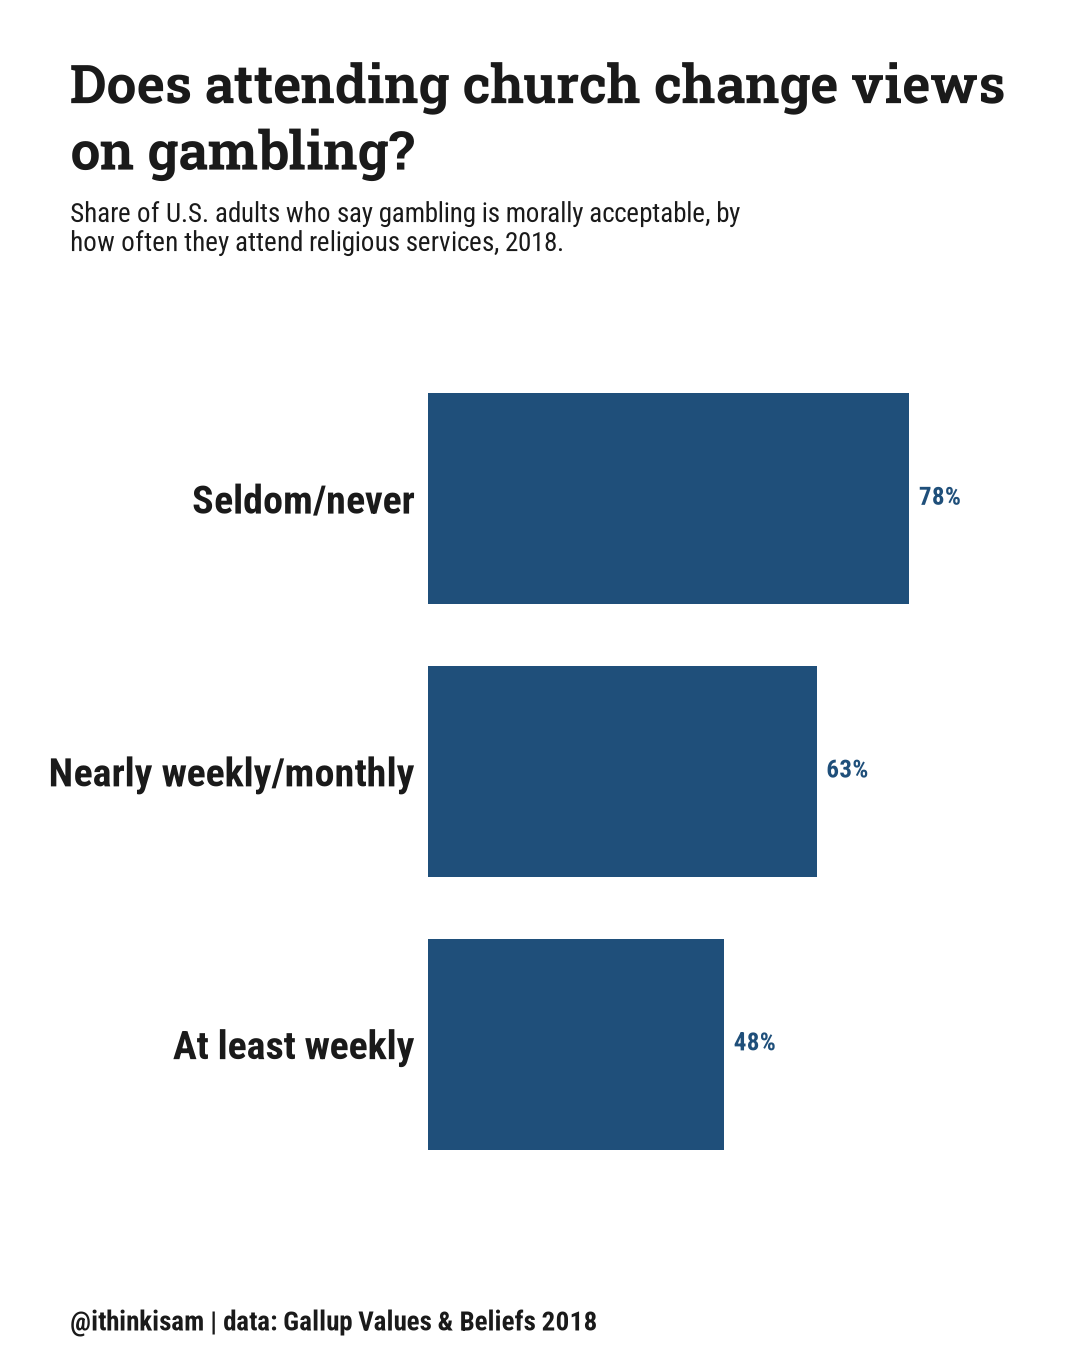
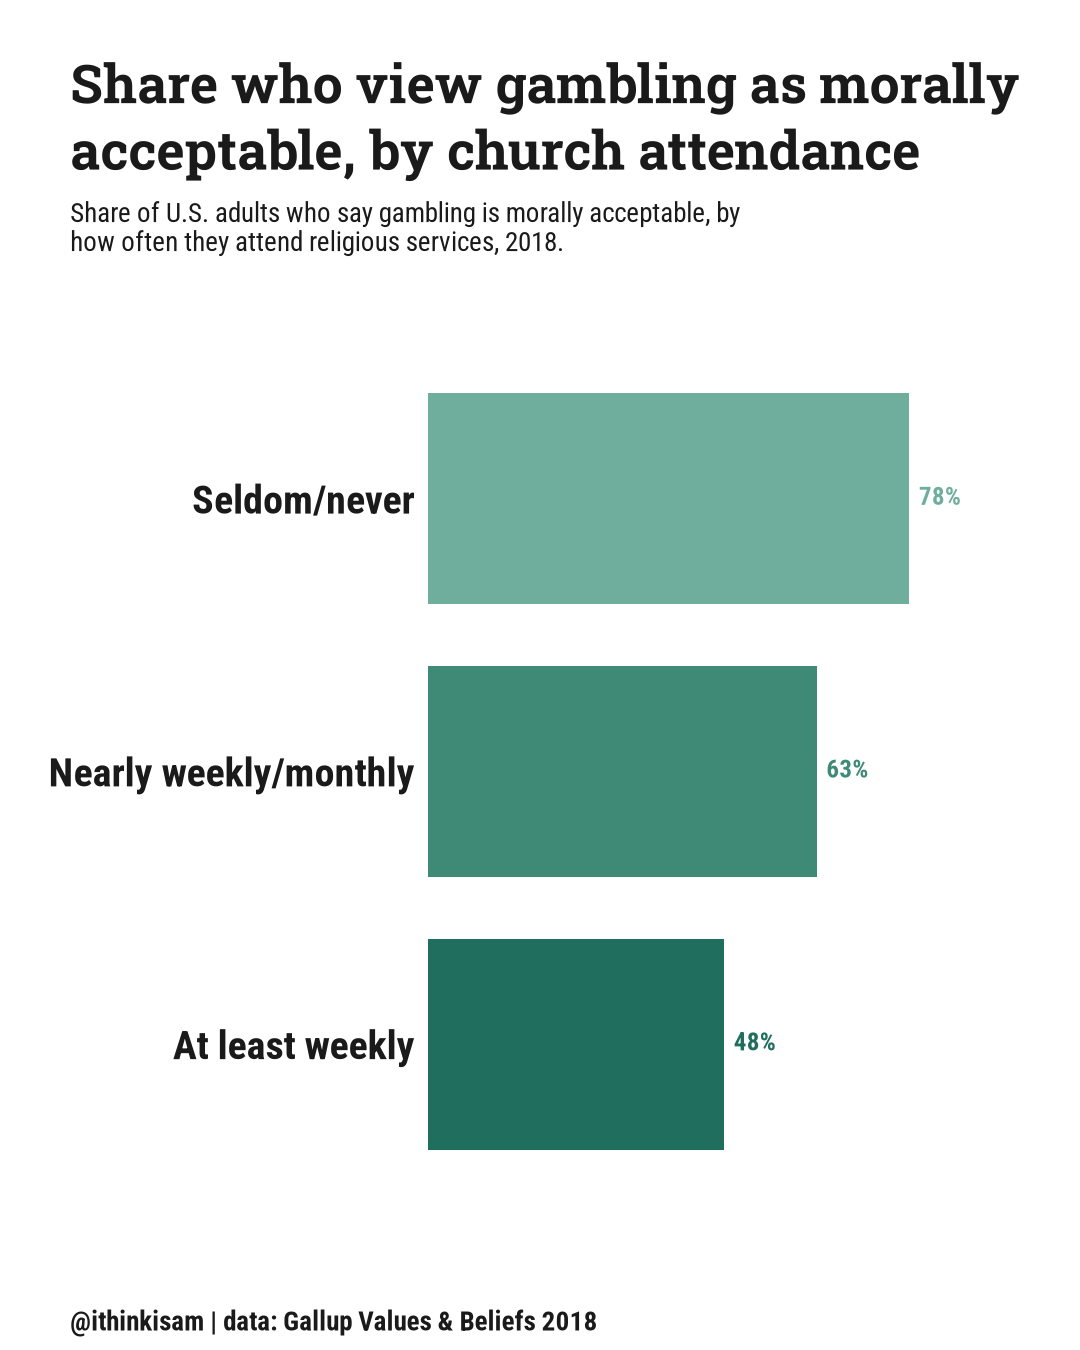
Flag bars for Pew country chart; colored Gallup attendance charts incl. morally wrong (#31)

Changed region(s): [[0.3972, 0.28, 0.8861, 0.6533], [0.0611, 0.0311, 0.9472, 0.1556], [0.3972, 0.6844, 0.7028, 0.8711]]

diff --git a/src/lib/data-explorer.ts b/src/lib/data-explorer.ts
@@ -1859,7 +1859,7 @@ const RAW_DATASETS: Dataset[] = [
     citation:
       "Gallup. 2016. \"U.S. Religious Groups Disagree on Five Key Moral Issues.\"",
     sourceUrl: "https://news.gallup.com/poll/191903/religious-groups-disagree-five-key-moral-issues.aspx",
-    graphics: [gallupGamblingGraphic(), gallupAttendanceGraphic()],
+    graphics: [gallupGamblingGraphic(), gallupAttendanceGraphic(), gallupAttendanceWrongGraphic()],
   },
   {
     slug: "pew-gambling-morality-2025",
@@ -2326,11 +2326,25 @@ function gallupAttendanceGraphic(): Graphic {
     .map((g) => `${g} ${results[g as keyof typeof results]}%`)
     .join(", ");
   return {
-    title: "Does attending church change views on gambling?",
+    title: "Share who view gambling as morally acceptable, by church attendance",
     description: "Share of U.S. adults who say gambling is morally acceptable, by religious service attendance, 2018.",
     imageSrc: "/data-explorer/gallup-values-beliefs-gambling/acceptable-by-attendance.png",
     width: 1080, height: 1350,
     alt: `Bar chart: share of U.S. adults saying gambling is morally acceptable, by attendance. ${alt}.`,
+  };
+}
+
+function gallupAttendanceWrongGraphic(): Graphic {
+  const { attendance_order: order, wrong_pct: results } = gallupAttendanceData;
+  const alt = order
+    .map((g) => `${g} ${results[g as keyof typeof results]}%`)
+    .join(", ");
+  return {
+    title: "Share who view gambling as morally wrong, by church attendance",
+    description: "Share of U.S. adults who say gambling is morally wrong, by religious service attendance, 2018.",
+    imageSrc: "/data-explorer/gallup-values-beliefs-gambling/wrong-by-attendance.png",
+    width: 1080, height: 1350,
+    alt: `Bar chart: share of U.S. adults saying gambling is morally wrong, by attendance. ${alt}.`,
   };
 }
 
@@ -2342,7 +2356,7 @@ function pewGamblingCountryGraphic(): Graphic {
     .join(", ");
   return {
     title: "Where is gambling seen as morally wrong?",
-    description: "Share of adults in 25 countries who say gambling is morally wrong, 2025.",
+    description: "Share of adults in 25 countries who say gambling is morally wrong, 2025, with each country's flag.",
     imageSrc: "/data-explorer/pew-gambling-morality-2025/gambling-morally-wrong-by-country.png",
     width: 1080, height: 1350,
     alt: `Bar chart: share saying gambling is morally wrong, by country. ${alt}.`,

diff --git a/scripts/flagship-charts/common.py b/scripts/flagship-charts/common.py
@@ -234,6 +234,7 @@ def render_magnitude_bar(
     margin_frac_override: float | None = None,
     row_label_fontsize: float | None = None,
     value_decimals: int = 0,
+    bar_images: dict[str, Path] | None = None,
 ) -> None:
     """One horizontal bar per `rows` entry (already in top-to-bottom display
     order), reading its value from `values[row]`. `caption_paragraphs`,
@@ -304,6 +305,13 @@ def render_magnitude_bar(
     suffix - e.g. lds-brazil-census-2010's state-level LDS shares, which
     run 0.03%-0.25%; at the default 0 decimals every single row would
     round to the same "0%" label.
+
+    `bar_images`, when given, maps a row label to an image file (e.g. a
+    country flag). That row's bar is filled with the image stretched to the
+    bar's extent (outlined in INK so a mostly-white image still reads), a
+    small copy of the image sits between the row label and the bar, and the
+    value label is drawn in INK. Rows missing from the map keep their normal
+    solid color. Default None leaves every existing caller unchanged.
     """
     fonts = fonts or load_fonts()
     fig = plt.figure(figsize=(FIG_W_IN, FIG_H_IN), dpi=DPI)
@@ -324,7 +332,7 @@ def render_magnitude_bar(
     ax.set_xticks([])
     for spine in ax.spines.values():
         spine.set_visible(False)
-    ax.tick_params(axis="y", length=0, pad=8)
+    ax.tick_params(axis="y", length=0, pad=8 + (36 if bar_images else 0))
 
     display_rows = rows[::-1]
     vals = [values[r] for r in display_rows]
@@ -445,7 +453,31 @@ def render_magnitude_bar(
         running += w / 2 if i == 0 else weights[i - 1] / 2 + w / 2
         row_positions.append(running)
 
-    ax.barh(row_positions, vals, height=bar_h, color=colors, zorder=3)
+    if bar_images:
+        from matplotlib.offsetbox import AnnotationBbox, OffsetImage
+        from PIL import Image
+        import numpy as np
+        bars = ax.barh(row_positions, vals, height=bar_h, color=colors, zorder=3)
+        for r, v, y, bar in zip(display_rows, vals, row_positions, bars):
+            if r not in bar_images:
+                continue
+            arr = np.asarray(Image.open(bar_images[r]).convert("RGBA"))
+            bar.set_visible(False)
+            ax.imshow(arr, extent=(0, v, y - bar_h / 2, y + bar_h / 2), aspect="auto",
+                      zorder=3, interpolation="bilinear")
+            ax.barh([y], [v], height=bar_h, fill=False, edgecolor=INK, linewidth=0.9, zorder=5)
+            icon_h_px = 17
+            zoom = icon_h_px / arr.shape[0] * 72 / DPI
+            ab = AnnotationBbox(
+                OffsetImage(arr, zoom=zoom), (0, y), xycoords=("axes fraction", "data"),
+                xybox=(-9, 0), boxcoords="offset points", box_alignment=(1, 0.5),
+                frameon=True, bboxprops=dict(edgecolor=BORDER, linewidth=0.8, facecolor="none"),
+                pad=0, annotation_clip=False, zorder=6,
+            )
+            ax.add_artist(ab)
+        colors = [INK if r in bar_images else c for r, c in zip(display_rows, colors)]
+    else:
+        ax.barh(row_positions, vals, height=bar_h, color=colors, zorder=3)
     ax.set_xlim(0, max(vals) * 1.22)
     span = (row_positions[-1] + weights[-1] / 2) - (row_positions[0] - weights[0] / 2)
     pad = span * margin_frac

diff --git a/scripts/gallup-values-beliefs-gambling/render_acceptable_by_attendance.py b/scripts/gallup-values-beliefs-gambling/render_acceptable_by_attendance.py
@@ -1,10 +1,14 @@
 #!/usr/bin/env python3
-"""Renders "Does attending church change views on gambling?" from
+"""Renders the two Gallup 2018 gambling-by-attendance charts (morally
+acceptable, morally wrong) from
 docs/datasets/gallup-values-beliefs-gambling/acceptable-by-attendance.json.
+Bars are a three-step ramp by attendance (lighter = attends less): green for
+"acceptable", oxblood-red for "wrong", matching the Latter-day Saint
+Next Mormons chart's colors.
 
 Usage:
   python scripts/gallup-values-beliefs-gambling/render_acceptable_by_attendance.py \
-    --out public/data-explorer/gallup-values-beliefs-gambling/acceptable-by-attendance.png
+    --out-dir public/data-explorer/gallup-values-beliefs-gambling
 """
 import argparse
 import json
@@ -17,25 +21,37 @@ from common import load_fonts, render_magnitude_bar  # noqa: E402
 
 DATA_JSON = HERE.parent.parent / "docs" / "datasets" / "gallup-values-beliefs-gambling" / "acceptable-by-attendance.json"
 
+# Seldom/never -> At least weekly, light to dark.
+GREEN_RAMP = ["#6FAE9C", "#3F8A77", "#1F6E5E"]
+RED_RAMP = ["#C98585", "#A65252", "#7C2D2D"]
+
 
 def main():
     ap = argparse.ArgumentParser()
-    ap.add_argument("--out", type=Path, required=True)
+    ap.add_argument("--out-dir", type=Path, required=True)
     ap.add_argument("--data", type=Path, default=DATA_JSON)
     args = ap.parse_args()
     data = json.loads(args.data.read_text(encoding="utf-8"))
-    rows = sorted(data["attendance_order"], key=lambda r: -data["acceptable_pct"][r])
-    render_magnitude_bar(
-        rows=rows,
-        values=data["acceptable_pct"],
-        highlight_rows=None,
-        title="Does attending church change views on gambling?",
-        subtitle="Share of U.S. adults who say gambling is morally acceptable, by\nhow often they attend religious services, 2018.",
-        caption_paragraphs=[],
-        handle="@ithinkisam | data: Gallup Values & Beliefs 2018",
-        out_path=args.out,
-        fonts=load_fonts(),
-    )
+    order = data["attendance_order"]
+    fonts = load_fonts()
+    for key, word, ramp, fname in (
+        ("acceptable_pct", "acceptable", GREEN_RAMP, "acceptable-by-attendance.png"),
+        ("wrong_pct", "wrong", RED_RAMP, "wrong-by-attendance.png"),
+    ):
+        values = data[key]
+        rows = sorted(order, key=lambda r: -values[r])
+        render_magnitude_bar(
+            rows=rows,
+            values=values,
+            highlight_rows=None,
+            row_colors=dict(zip(order, ramp)),
+            title=f"Share who view gambling as morally {word}, by church attendance",
+            subtitle=f"Share of U.S. adults who say gambling is morally {word}, by\nhow often they attend religious services, 2018.",
+            caption_paragraphs=[],
+            handle="@ithinkisam | data: Gallup Values & Beliefs 2018",
+            out_path=args.out_dir / fname,
+            fonts=fonts,
+        )
 
 
 if __name__ == "__main__":

diff --git a/scripts/pew-gambling-morality-2025/render_gambling_wrong_by_country.py b/scripts/pew-gambling-morality-2025/render_gambling_wrong_by_country.py
@@ -1,8 +1,8 @@
 #!/usr/bin/env python3
 """Renders "Where is gambling seen as morally wrong?" from
 docs/datasets/pew-gambling-morality-2025/gambling-morally-wrong-by-country.json.
-Shared magnitude-bar shape; the United States is the highlighted subject (a
-country, not a religious identity), with the 27-row-style label override.
+Shared magnitude-bar shape; each bar is filled with its country's flag
+(flags/<iso2>.png, from flagcdn.com) and a small flag sits beside the label.
 
 Usage:
   python scripts/pew-gambling-morality-2025/render_gambling_wrong_by_country.py \
@@ -19,6 +19,15 @@ sys.path.insert(0, str(HERE.parent))
 from common import load_fonts, render_magnitude_bar  # noqa: E402
 from chart_style import sort_groups  # noqa: E402
 
+FLAG_DIR = HERE / "flags"
+ISO2 = {
+    "Indonesia": "id", "India": "in", "Turkey": "tr", "South Korea": "kr", "Nigeria": "ng",
+    "Italy": "it", "Greece": "gr", "Brazil": "br", "Kenya": "ke", "Israel": "il",
+    "South Africa": "za", "Argentina": "ar", "Mexico": "mx", "Netherlands": "nl",
+    "Poland": "pl", "Spain": "es", "Japan": "jp", "United Kingdom": "gb",
+    "Australia": "au", "Sweden": "se", "France": "fr", "Germany": "de",
+    "Hungary": "hu", "United States": "us", "Canada": "ca",
+}
 DATA_JSON = HERE.parent.parent / "docs" / "datasets" / "pew-gambling-morality-2025" / "gambling-morally-wrong-by-country.json"
 
 
@@ -32,14 +41,15 @@ def main():
     render_magnitude_bar(
         rows=rows,
         values=values,
-        highlight_rows={"United States"},
+        highlight_rows=None,
+        bar_images={r: FLAG_DIR / f"{ISO2[r]}.png" for r in rows},
         title="Where is gambling seen as morally wrong?",
-        subtitle="Share of adults who say gambling is morally wrong, 25 countries,\n2025. The United States is highlighted.",
+        subtitle="Share of adults who say gambling is morally wrong, 25 countries,\n2025.",
         caption_paragraphs=[],
         handle="@ithinkisam | data: Pew Global Attitudes 2025",
         out_path=args.out,
         fonts=load_fonts(),
-        axes_left=0.26,
+        axes_left=0.30,
         row_label_fontsize=13,
         value_label_fontsize=12,
     )

diff --git a/docs/datasets/gallup-values-beliefs-gambling/README.md b/docs/datasets/gallup-values-beliefs-gambling/README.md
@@ -11,4 +11,4 @@ microdata. Gallup labels the groups "No religion" and "Mormon"; the chart uses
 "Unaffiliated" and "Latter-day Saint". Render:
 `scripts/gallup-values-beliefs-gambling/render_gallup_acceptable_by_religion.py`.
 
-Also: `acceptable-by-attendance.json`, share saying gambling is morally acceptable by religious service attendance (Gallup, 2018, https://news.gallup.com/poll/235379/acceptance-gambling-reaches-new-heights.aspx). All U.S. adults; Latter-day Saints not broken out. Transcribed from the article.
+Also: `acceptable-by-attendance.json`, share saying gambling is morally acceptable or morally wrong by religious service attendance (Gallup, 2018, https://news.gallup.com/poll/235379/acceptance-gambling-reaches-new-heights.aspx). All U.S. adults; Latter-day Saints not broken out. Transcribed from the article.

diff --git a/docs/datasets/pew-gambling-morality-2025/README.md b/docs/datasets/pew-gambling-morality-2025/README.md
@@ -11,3 +11,5 @@ Latter-day Saints; they give context for the Latter-day Saint figures in
 
 Values are transcribed from Pew's published charts and text. U.S. wording was
 "morally wrong"; other countries used "morally unacceptable".
+
+Flag images in `scripts/pew-gambling-morality-2025/flags/` come from flagcdn.com (320px PNGs, ISO 3166 codes) and are used to fill the country chart bars.
